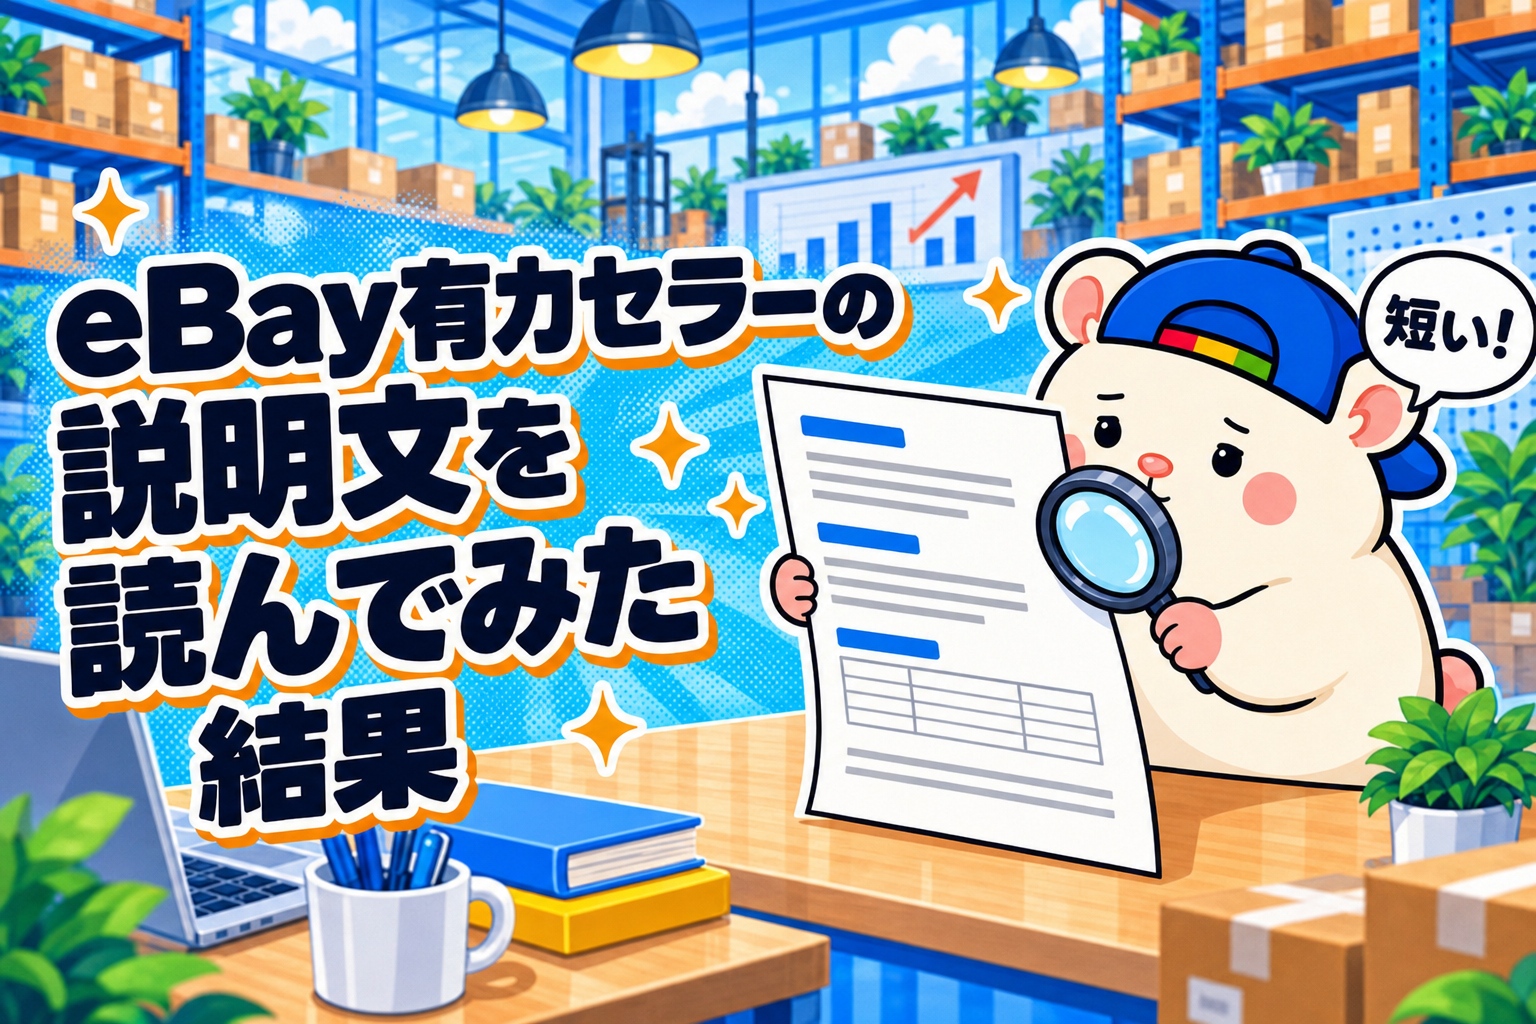
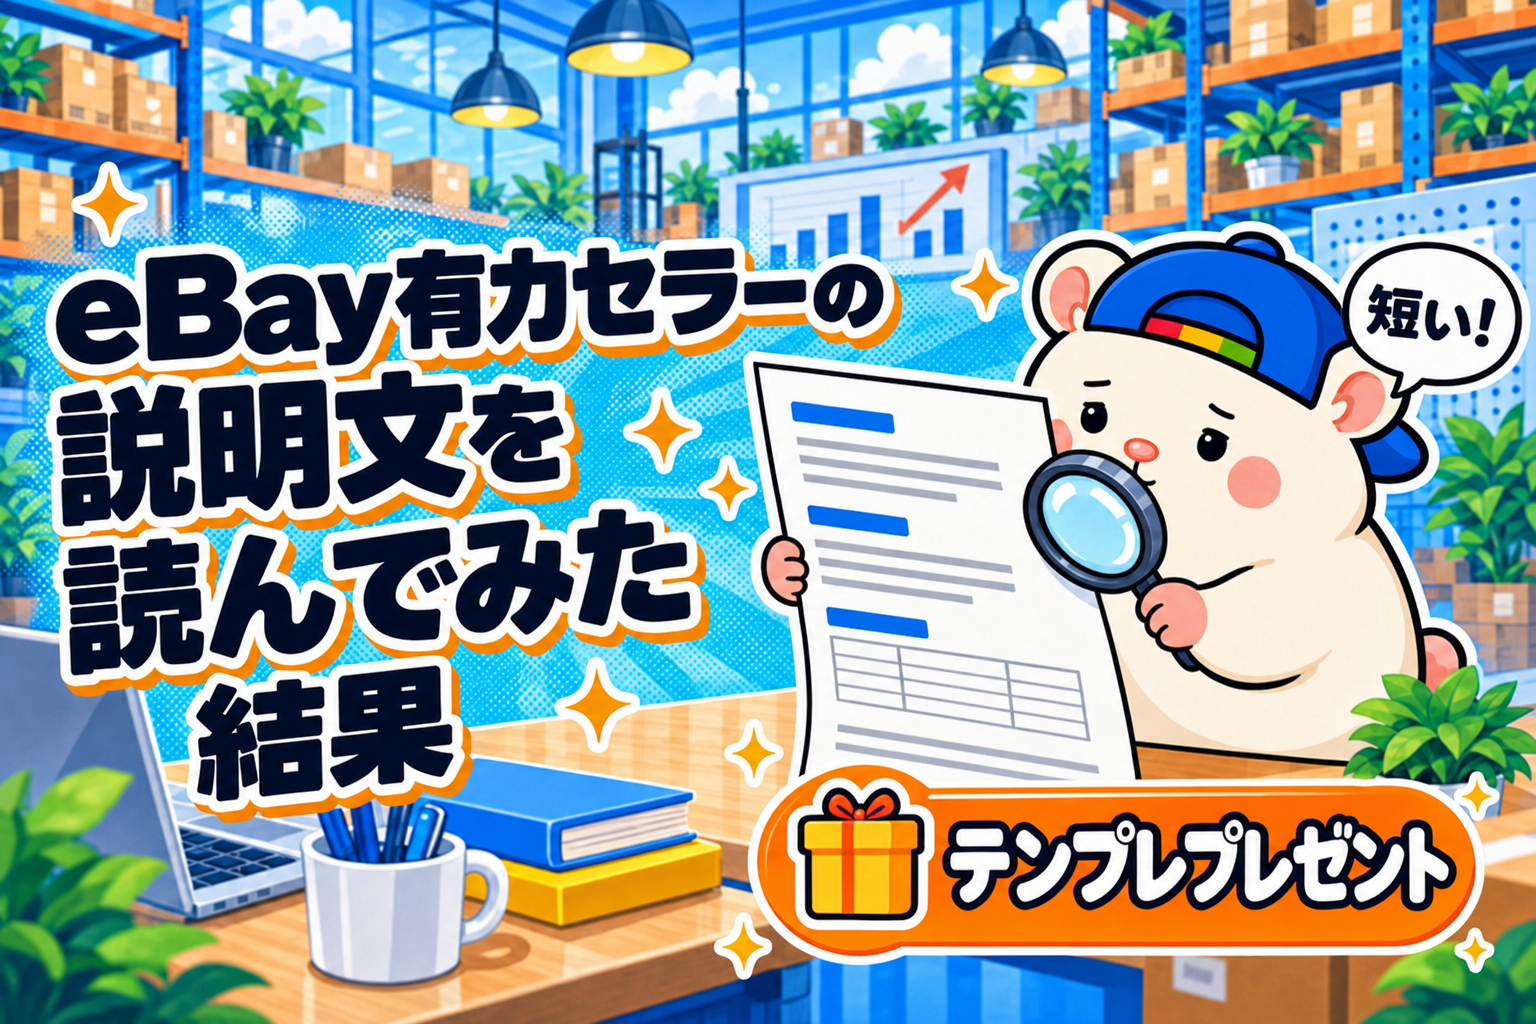
記事「eBay有力セラーの説明文を読んでみた結果」のアイキャッチに「テンプレプレゼント」のバッジを追加(9/18 大介さん指示)

diff --git a/index.html b/index.html
@@ -188,7 +188,7 @@
                     </div>
                     <div class="post-list-container active" id="posts-latest">
 <div class="post-list">
-<article class="post-card"><a href="articles/2026-09-18-ebay-award-seller-description.html" class="post-thumb"><img src="assets/home-optimized/2026_09_18_ebay_award_seller_description_eyecatch-0b6d3c84f414-640.webp" alt="eBay有力セラーの説明文を読んでみた結果" class="post-thumb-img" width="640" height="427" loading="lazy" decoding="async" data-original-src="assets/2026_09_18_ebay_award_seller_description_eyecatch.png"><span class="category-badge">副業② eBay輸出</span></a><div class="post-info"><h2><a href="articles/2026-09-18-ebay-award-seller-description.html">eBay有力セラーの説明文を読んでみた結果</a></h2><time datetime="2026-09-18">2026.09.18</time><p>eBayジャパンの受賞セラー18店の説明文を全文調査。1文は10語、関税は国で分けて書く、状態はランク表。コピペで使えるテンプレートも無料で配布します。</p></div></article>
+<article class="post-card"><a href="articles/2026-09-18-ebay-award-seller-description.html" class="post-thumb"><img src="assets/home-optimized/2026_09_18_ebay_award_seller_description_eyecatch-df259d0f364e-640.webp" alt="eBay有力セラーの説明文を読んでみた結果" class="post-thumb-img" width="640" height="427" loading="lazy" decoding="async" data-original-src="assets/2026_09_18_ebay_award_seller_description_eyecatch.png"><span class="category-badge">副業② eBay輸出</span></a><div class="post-info"><h2><a href="articles/2026-09-18-ebay-award-seller-description.html">eBay有力セラーの説明文を読んでみた結果</a></h2><time datetime="2026-09-18">2026.09.18</time><p>eBayジャパンの受賞セラー18店の説明文を全文調査。1文は10語、関税は国で分けて書く、状態はランク表。コピペで使えるテンプレートも無料で配布します。</p></div></article>
 <article class="post-card"><a href="articles/2026-09-17-ebay-award-seller-product-page.html" class="post-thumb"><img src="assets/home-optimized/2026_09_17_ebay_award_seller_product_page_eyecatch-30bd0a8906c5-640.webp" alt="eBay有力セラーの商品ページを調べてみた結果" class="post-thumb-img" width="640" height="427" loading="lazy" decoding="async" data-original-src="assets/2026_09_17_ebay_award_seller_product_page_eyecatch.png"><span class="category-badge">副業② eBay輸出</span></a><div class="post-info"><h2><a href="articles/2026-09-17-ebay-award-seller-product-page.html">eBay有力セラーの商品ページを調べてみた結果</a></h2><time datetime="2026-09-17">2026.09.17</time><p>eBayジャパンの受賞セラー18店・191品の商品ページを調査。写真枚数、Item specifics、説明文を実測し、上位店に共通する3つの改善点を解説します。</p></div></article>
 
 <article class="post-card"><a href="articles/2026-09-16-ebay-award-seller-listing-count-price.html" class="post-thumb"><img src="assets/home-optimized/2026_09_16_ebay_award_seller_listings_eyecatch-174da8ea8d2b-640.webp" alt="eBay有力セラーの出品数と価格を調べてみた結果" class="post-thumb-img" width="640" height="427" loading="lazy" decoding="async" data-original-src="assets/2026_09_16_ebay_award_seller_listings_eyecatch.png"><span class="category-badge">副業② eBay輸出</span></a><div class="post-info"><h2><a href="articles/2026-09-16-ebay-award-seller-listing-count-price.html">eBay有力セラーの出品数と価格を調べてみた結果</a></h2><time datetime="2026-09-16">2026.09.16</time><p>eBayジャパンの受賞セラー18店を調査。出品数は119〜50,597品、値下げ交渉は7店、送料無料は11店。ジャンルに合う出品数・価格・送料設定を実測から解説します。</p></div></article>
@@ -2223,7 +2223,7 @@
 
                     <div class="post-list-container" id="posts-ebay">
                         <div class="post-list">
-<article class="post-card"><a href="articles/2026-09-18-ebay-award-seller-description.html" class="post-thumb"><img src="assets/home-optimized/2026_09_18_ebay_award_seller_description_eyecatch-0b6d3c84f414-640.webp" alt="eBay有力セラーの説明文を読んでみた結果" class="post-thumb-img" width="640" height="427" loading="lazy" decoding="async" data-original-src="assets/2026_09_18_ebay_award_seller_description_eyecatch.png"><span class="category-badge">副業② eBay輸出</span></a><div class="post-info"><h2><a href="articles/2026-09-18-ebay-award-seller-description.html">eBay有力セラーの説明文を読んでみた結果</a></h2><time datetime="2026-09-18">2026.09.18</time><p>eBayジャパンの受賞セラー18店の説明文を全文調査。1文は10語、関税は国で分けて書く、状態はランク表。コピペで使えるテンプレートも無料で配布します。</p></div></article>
+<article class="post-card"><a href="articles/2026-09-18-ebay-award-seller-description.html" class="post-thumb"><img src="assets/home-optimized/2026_09_18_ebay_award_seller_description_eyecatch-df259d0f364e-640.webp" alt="eBay有力セラーの説明文を読んでみた結果" class="post-thumb-img" width="640" height="427" loading="lazy" decoding="async" data-original-src="assets/2026_09_18_ebay_award_seller_description_eyecatch.png"><span class="category-badge">副業② eBay輸出</span></a><div class="post-info"><h2><a href="articles/2026-09-18-ebay-award-seller-description.html">eBay有力セラーの説明文を読んでみた結果</a></h2><time datetime="2026-09-18">2026.09.18</time><p>eBayジャパンの受賞セラー18店の説明文を全文調査。1文は10語、関税は国で分けて書く、状態はランク表。コピペで使えるテンプレートも無料で配布します。</p></div></article>
 <article class="post-card"><a href="articles/2026-09-17-ebay-award-seller-product-page.html" class="post-thumb"><img src="assets/home-optimized/2026_09_17_ebay_award_seller_product_page_eyecatch-30bd0a8906c5-640.webp" alt="eBay有力セラーの商品ページを調べてみた結果" class="post-thumb-img" width="640" height="427" loading="lazy" decoding="async" data-original-src="assets/2026_09_17_ebay_award_seller_product_page_eyecatch.png"><span class="category-badge">副業② eBay輸出</span></a><div class="post-info"><h2><a href="articles/2026-09-17-ebay-award-seller-product-page.html">eBay有力セラーの商品ページを調べてみた結果</a></h2><time datetime="2026-09-17">2026.09.17</time><p>eBayジャパンの受賞セラー18店・191品の商品ページを調査。写真枚数、Item specifics、説明文を実測し、上位店に共通する3つの改善点を解説します。</p></div></article>
 
 <article class="post-card"><a href="articles/2026-09-16-ebay-award-seller-listing-count-price.html" class="post-thumb"><img src="assets/home-optimized/2026_09_16_ebay_award_seller_listings_eyecatch-174da8ea8d2b-640.webp" alt="eBay有力セラーの出品数と価格を調べてみた結果" class="post-thumb-img" width="640" height="427" loading="lazy" decoding="async" data-original-src="assets/2026_09_16_ebay_award_seller_listings_eyecatch.png"><span class="category-badge">副業② eBay輸出</span></a><div class="post-info"><h2><a href="articles/2026-09-16-ebay-award-seller-listing-count-price.html">eBay有力セラーの出品数と価格を調べてみた結果</a></h2><time datetime="2026-09-16">2026.09.16</time><p>eBayジャパンの受賞セラー18店を調査。出品数は119〜50,597品、値下げ交渉は7店、送料無料は11店。ジャンルに合う出品数・価格・送料設定を実測から解説します。</p></div></article>
